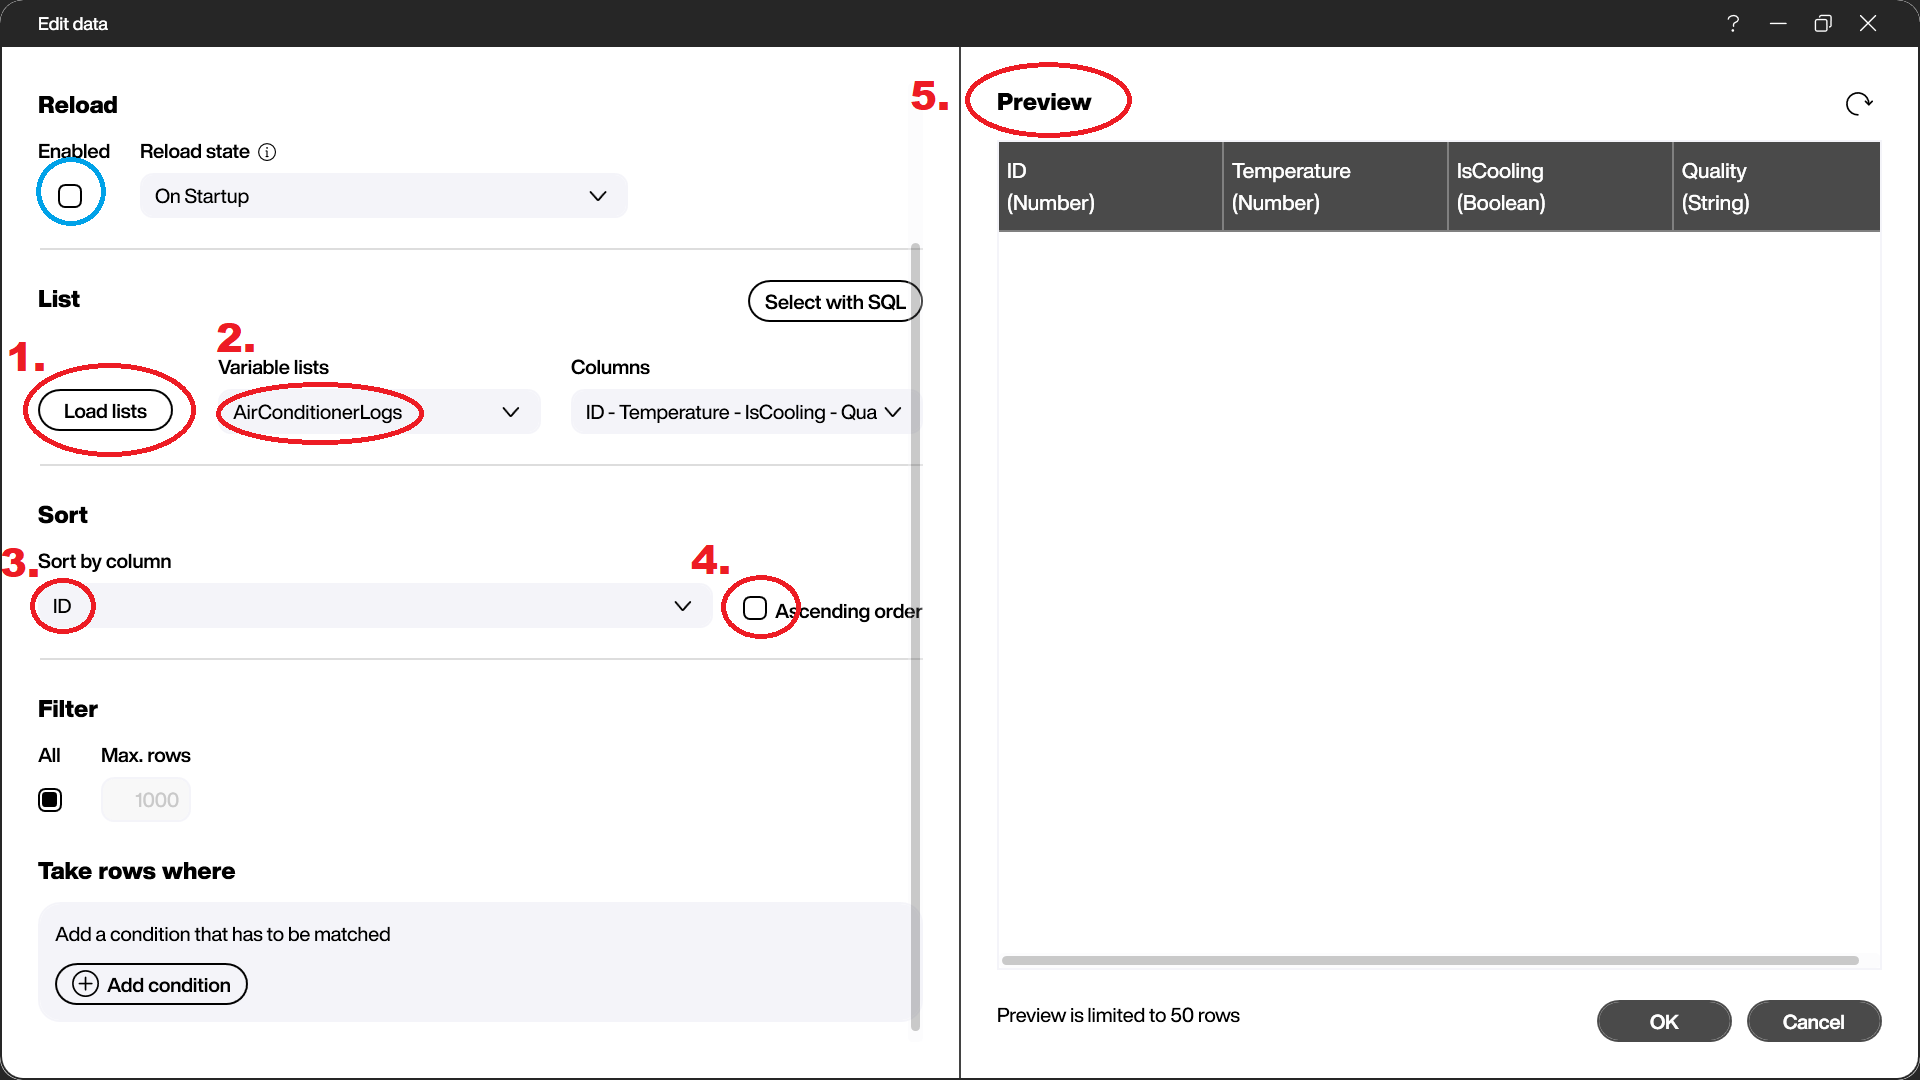
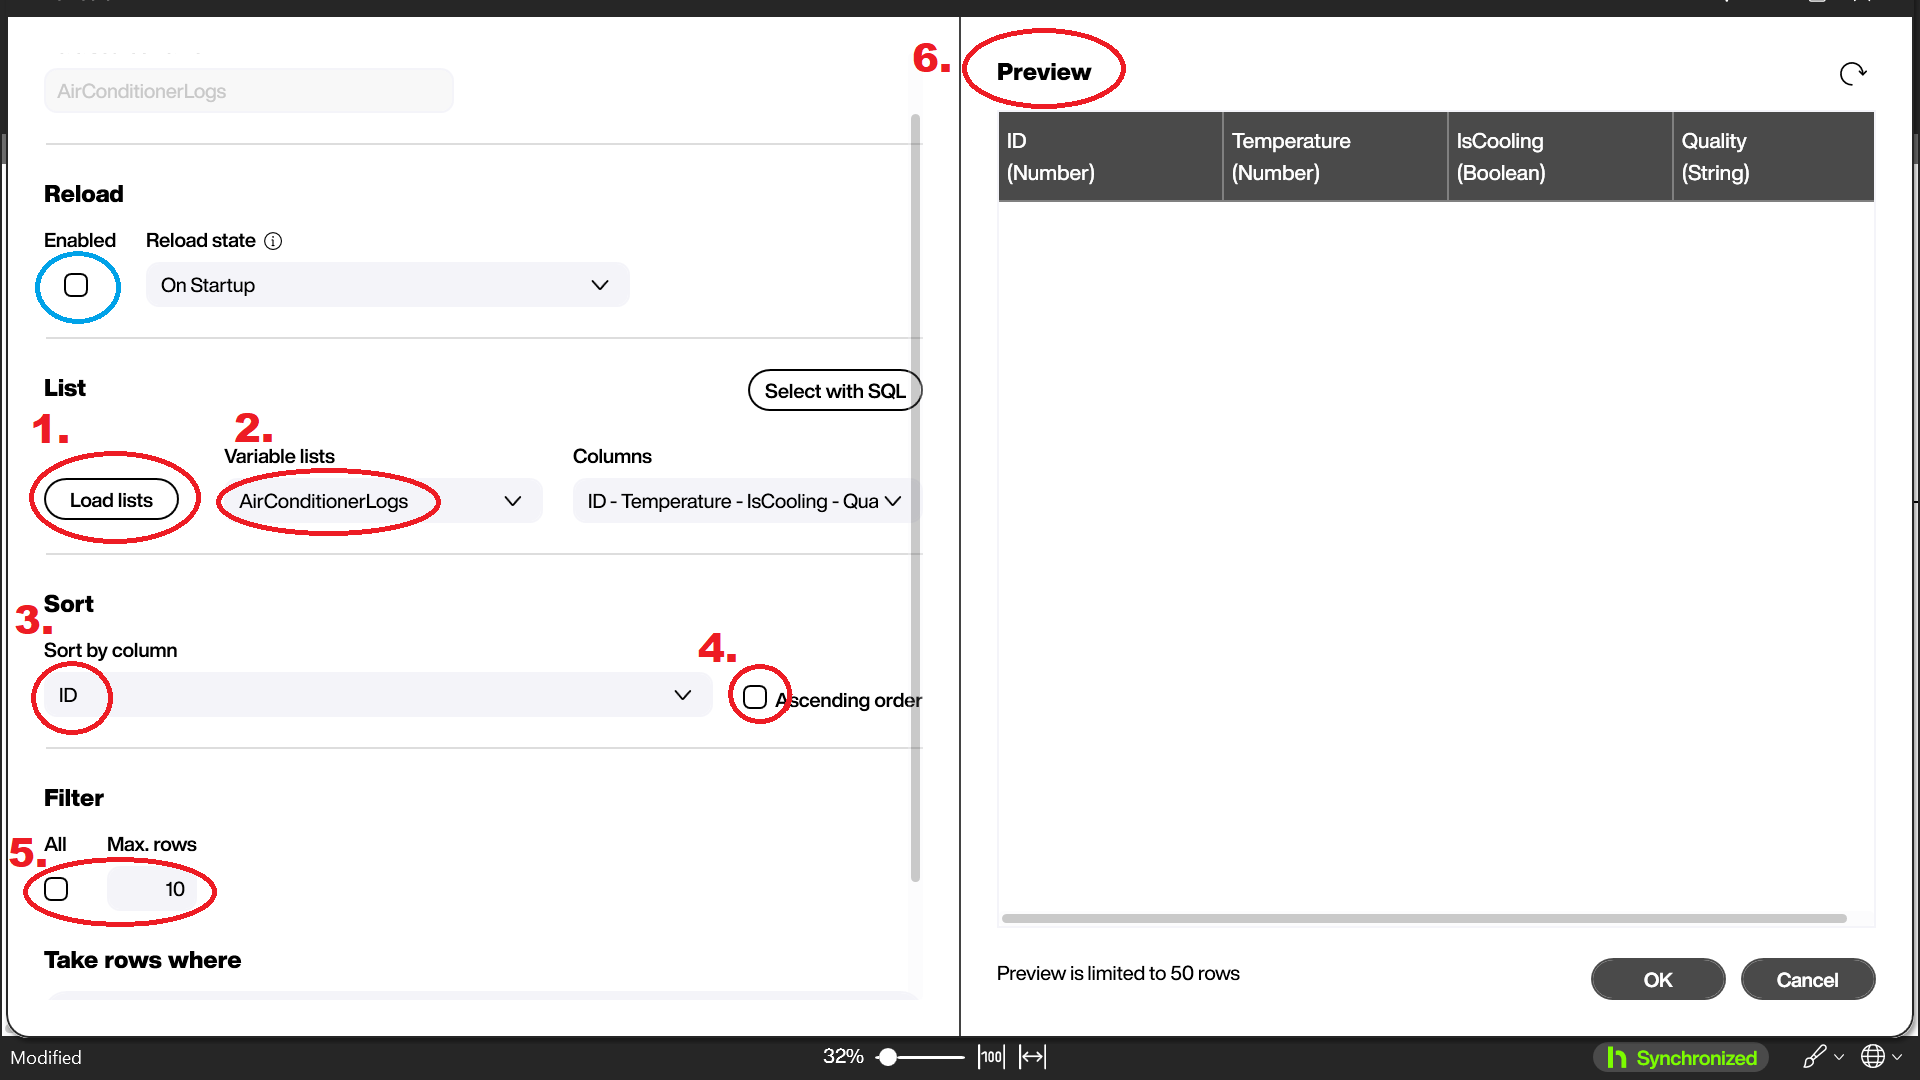
Backup

diff --git a/_posts/2023-09-20-Peakboard-Hub-Online-Using-lists-to-store-sensor-data.md b/_posts/2023-09-20-Peakboard-Hub-Online-Using-lists-to-store-sensor-data.md
@@ -20,7 +20,7 @@ What sensor data will we use? We will use the data from an air conditioner, whic
 
 ## Create a data source for our sensor data
 
-In Peakboard Designer, we add a new OPC UA data source for our sensor data.
+In Peakboard Designer, we add a new OPC UA data source for our sensor data, called `AirConditionerData`.
 
 We subscribe to these three nodes:
 * `Temperature`, the current ambient temperature
@@ -43,7 +43,7 @@ We add columns that correspond to the nodes of our sensor data. For our `PowerCo
 
 ## Create a data source for our PBHO list
 
-In Peakboard Designer, we add a new PBHO list data source. Our Peakboard Box will use this data source to read from our PBHO list.
+In Peakboard Designer, we add a new PBHO list data source called `AirConditionerLogs`. Our Peakboard Box will use this data source to read from our PBHO list.
 
 ![image](/assets/2023-09-20/030.png)
 
@@ -53,7 +53,8 @@ Here's how we set up this data source:
 2. We select the empty list that we created in the previous section.
 3. We select `ID` as the column we sort our data by. Each entry in the list is automatically assigned an `ID`, which is just an auto-increment counter.
 4. We deselect *Ascending order*, in order to sort our data in descending order. This sorts the data from highest `ID` to lowest, meaning the newest entries will show up first.
-5. We click *Load data* in the Preview window, to load our empty PBHO list.
+5. We limit the data we read to the 10 newest rows, because our table control won't show more than 10 rows, and we don't want to download the entire PBHO list, which can grow quite large.
+6. We click *Load data* in the Preview window, to load our empty PBHO list.
 
 Because we will eventually reload this list with a script, we can disable reloading. But this is not essential and does not make much of a difference.
 
@@ -64,7 +65,7 @@ Because we will eventually reload this list with a script, we can disable reload
 
 We have a data source for both our sensor data and our PBHO list. Now we can create a script that writes the sensor data to the PBHO list. Each time new sensor data comes in, this script will write that data to the PBHO list.
 
-First, we add a new refreshed script to our OPC UA data source. A refreshed script executes each time a data source refreshes (i.e. gets new data).
+First, we add a new refreshed script to `AirConditionerData`. This script will execute each time a data source refreshes (i.e. gets new data).
 
 ![image](/assets/2023-09-20/050.png)
 
@@ -74,14 +75,28 @@ Here is the script that we create:
 
 The root block adds a row to the end of the PBHO list. It come from *FUNCTIONS* > *Publish to external systems* > *Peakboard Hub* > *Add row at end*.
 
-We fill the columns of our row with data from our OPC UA data source. We get our `IsCooling` column by checking if the `PowerConsumption` is zero or not.
+We fill the columns of our row with data from `AirConditionerData`. We get our `IsCooling` column by checking if the `PowerConsumption` is zero or not.
 
 Finally, we reload our PBHO list, so that the control in our dashboard updates.
 
 We will also uncheck the *Execute only if data changed* box. That's because we want to record all sensor data, even if it does not change from the last one.
 
-![image](/assets/2023-09-20/060.png)
+![image](/assets/2023-09-20/070.png)
 
 
-re-add refresh script for analysis
+## Add tables for visualization
+
+Now, we add two table controls: one for `AirConditionerData`, and one for `AirConditionerLogs`.
+
+We can see that as new data comes in, it gets written to the PBHO list, and we read the updated PBHO list.
+
+![image](/assets/2023-09-20/080.gif)
+
+
+## Select from PBHO list with SQL
+
+In our `AirConditionerLogs` data source, we chose to read every column and every row from the PBHO list. In other words, `AirConditionerLogs` downloads the entire PBHO list into the Peakboard Box.
+
+
+re-add refresh script for analysis"dont for get to. . ."
 
